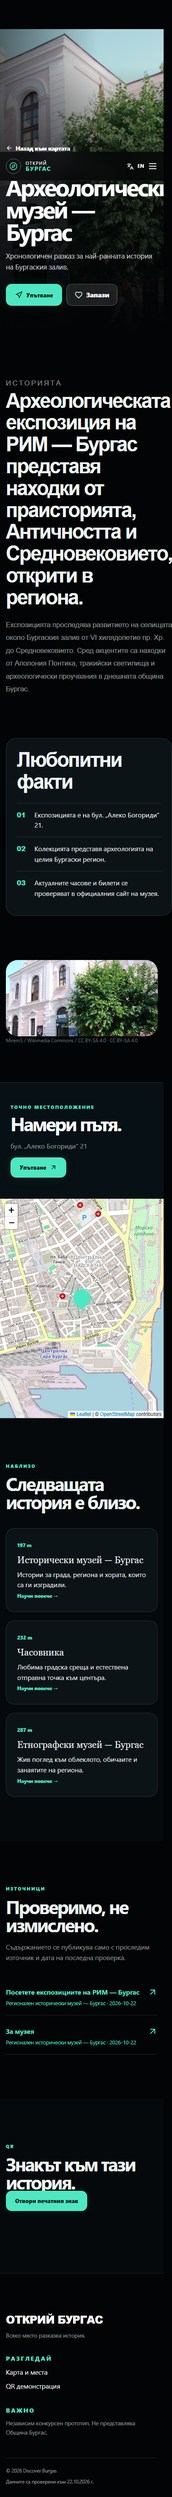
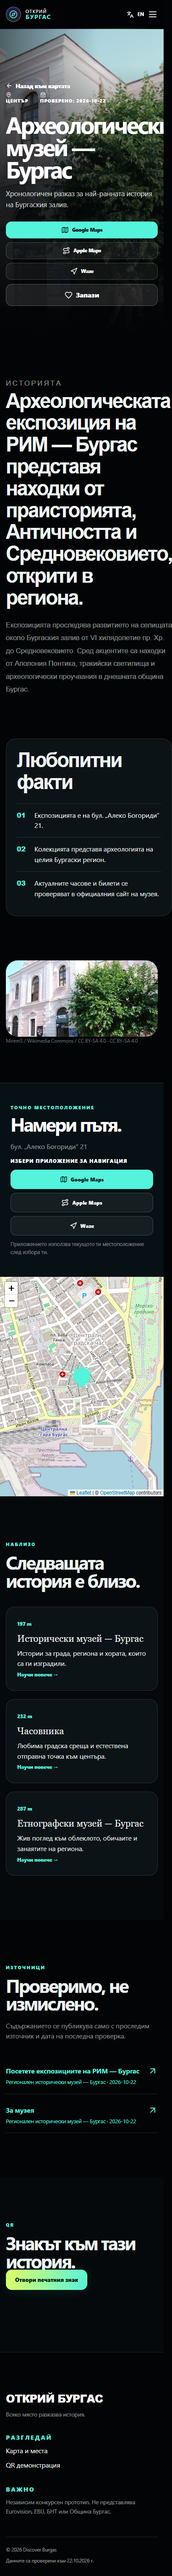
Add Burgas 2027 visitor layer and universal navigation

diff --git a/src/app/[locale]/page.tsx b/src/app/[locale]/page.tsx
@@ -1,6 +1,6 @@
 import Image from "next/image";
 import Link from "next/link";
-import { ArrowRight, Footprints, MapPinned, QrCode, ScanLine } from "lucide-react";
+import { ArrowRight, CalendarDays, Footprints, MapPinned, Music2, QrCode, RadioTower, ScanLine } from "lucide-react";
 import { notFound } from "next/navigation";
 import { PlaceCard } from "@/components/PlaceCard";
 import { MapExplorer } from "@/components/MapExplorer";
@@ -10,14 +10,15 @@ import { isLocale } from "@/types/content";
 export default async function HomePage({ params }: { params: Promise<{ locale: string }> }) {
   const { locale } = await params; if (!isLocale(locale)) notFound(); const isBg=locale==="bg"; const featured=landmarks.filter((item)=>item.featured).slice(0,3); const route=routes[0];
   return <>
-    <section className="hero"><div className="hero-aura" aria-hidden="true"/><div className="hero-bg"><Image src="/images/island.jpg" alt={isBg?"Остров Света Анастасия в Бургаския залив":"St. Anastasia Island in Burgas Bay"} fill priority sizes="(max-width: 720px) 88vw, 520px"/></div><div className="shell hero-content"><div><p className="eyebrow">{isBg?"Културното наследство е около теб":"Cultural heritage is all around you"}</p><h1 className="display">{isBg?<>Градът се променя,<br/>когато го познаваш.</>:<>The city changes<br/>when you know it.</>}</h1><p className="hero-copy">{isBg?"Сканирай място. Открий неговата история. Продължи към следващата следа из Бургас.":"Scan a place. Discover its story. Follow the next clue across Burgas."}</p><div className="hero-actions"><Link className="button" href={`/${locale}/map`}>{isBg?"Разгледай картата":"Explore the map"}<ArrowRight size={18}/></Link><Link className="button secondary" href="#places">{isBg?"Виж как работи":"See how it works"}</Link></div><small className="hero-status">{isBg?"Без инсталация · без регистрация · директно в браузъра":"No install · no account · directly in your browser"}</small></div><div className="hero-note"><strong>07</strong><span>{isBg?"проверени места · една жива карта":"verified places · one living map"}</span></div></div></section>
+    <section className="hero"><div className="hero-aura" aria-hidden="true"/><div className="hero-rhythm" aria-hidden="true">{Array.from({length:18}).map((_,i)=><i key={i}/>)}</div><div className="hero-bg"><Image src="/images/island.jpg" alt={isBg?"Остров Света Анастасия в Бургаския залив":"St. Anastasia Island in Burgas Bay"} fill priority sizes="(max-width: 720px) 88vw, 520px"/></div><div className="shell hero-content"><div><p className="eyebrow">{isBg?"Бургас 2027 · град домакин · културен спътник":"Burgas 2027 · Host City · cultural companion"}</p><h1 className="display">{isBg?<>Един град.<br/>Хиляди истории.</>:<>One city.<br/>Thousands of stories.</>}</h1><p className="hero-copy">{isBg?"Открий културния ритъм на Бургас — от QR знака пред теб до следващото място, сцената и морето.":"Discover the cultural rhythm of Burgas — from the QR sign in front of you to the next place, the stage and the sea."}</p><div className="hero-actions"><Link className="button" href={`/${locale}/map`}>{isBg?"Разгледай картата":"Explore the map"}<ArrowRight size={18}/></Link><Link className="button secondary" href={`/${locale}/places/arena-burgas`}>{isBg?"Бургас 2027":"Burgas 2027"}<Music2 size={17}/></Link></div><small className="hero-status">{isBg?"Независим културен гид · официалните новини са свързани към източника":"Independent cultural guide · official updates link to their source"}</small></div><div className="hero-note"><strong>08</strong><span>{isBg?"проверени места · една жива карта":"verified places · one living map"}</span></div></div></section>
+    <section className="event-section"><div className="shell event-card"><div className="event-signal"><RadioTower size={22}/><span>{isBg?"Потвърдено от EBU и БНТ":"Confirmed by the EBU and BNT"}</span></div><div className="event-main"><div><p className="eyebrow">{isBg?"България посреща Европа":"Bulgaria welcomes Europe"}</p><h2 className="display">{isBg?"Бургас е домакин на Eurovision 2027.":"Burgas hosts Eurovision 2027."}</h2><p>{isBg?"Арена Бургас е единствената потвърдена фестивална локация към момента. Добавихме я към картата с проверени координати и избор на навигация.":"Arena Burgas is the only confirmed contest location so far. It is now on the map with verified coordinates and a choice of navigation apps."}</p><div className="event-actions"><Link className="button" href={`/${locale}/places/arena-burgas`}>{isBg?"Отвори Арена Бургас":"Open Arena Burgas"}<ArrowRight size={17}/></Link><a className="button secondary" href="https://www.eurovision.com/newsroom/frequently-asked-questions/faqs-burgas-2027/" target="_blank" rel="noreferrer">{isBg?"Официална информация":"Official information"}</a></div></div><div className="event-dates" aria-label={isBg?"Дати на шоу вечерите":"Live show dates"}><CalendarDays/><strong>11 · 13 · 15</strong><span>{isBg?"МАЙ 2027 · АРЕНА БУРГАС":"MAY 2027 · ARENA BURGAS"}</span></div></div><small>{isBg?"„Открий Бургас“ не е официална услуга на Eurovision, EBU, БНТ или Община Бургас.":"Discover Burgas is not an official service of Eurovision, the EBU, BNT or Burgas Municipality."}</small></div></section>
     <section className="section problem-section"><div className="shell"><div className="section-head"><div><p className="eyebrow">{isBg?"Проблемът":"The problem"}</p><h2 className="display">{isBg?"Една табела дава факт. Истинското откриване започва след него.":"A sign gives you a fact. Real discovery begins after it."}</h2></div><p>{isBg?"Много културни места остават невидими, дори когато минаваме покрай тях. „Открий Бургас“ превръща краткия поглед в маршрут.":"Many cultural places stay invisible even as we pass them. Discover Burgas turns a glance into a journey."}</p></div><div className="steps">{[
       ["01",ScanLine,isBg?"Сканирай":"Scan",isBg?"QR кодът на информационния знак отваря точното място.":"The sign’s QR code opens the exact place."],
       ["02",QrCode,isBg?"Научи":"Learn",isBg?"Прочети проверена история и виж автентични изображения.":"Read verified history and view authentic images."],
       ["03",MapPinned,isBg?"Избери":"Choose",isBg?"Открий какво се намира наблизо върху интерактивната карта.":"Find what is nearby on the interactive map."],
       ["04",Footprints,isBg?"Продължи":"Continue",isBg?"Отвори упътване и продължи по културния маршрут.":"Open directions and continue along the cultural route."]
     ].map(([num,Icon,title,text])=><article className="step" key={num as string}><span>{num as string}</span><Icon size={24}/><h3>{title as string}</h3><p>{text as string}</p></article>)}</div></div></section>
-    <section className="section soft" id="places"><div className="shell"><div className="section-head"><div><p className="eyebrow">{isBg?"Архивът оживява":"The archive comes alive"}</p><h2 className="display">{isBg?"Три места. Три различни лица на Бургас.":"Three places. Three different faces of Burgas."}</h2></div><Link className="text-link" href={`/${locale}/map`}>{isBg?"Всички 7 места":"All 7 places"}<ArrowRight size={16}/></Link></div><div className="places-grid">{featured.map((item,i)=><PlaceCard item={item} locale={locale} index={i+1} key={item.slug}/>)}</div></div></section>
+    <section className="section soft" id="places"><div className="shell"><div className="section-head"><div><p className="eyebrow">{isBg?"Архивът оживява":"The archive comes alive"}</p><h2 className="display">{isBg?"Три места. Три различни лица на Бургас.":"Three places. Three different faces of Burgas."}</h2></div><Link className="text-link" href={`/${locale}/map`}>{isBg?"Всички 8 места":"All 8 places"}<ArrowRight size={16}/></Link></div><div className="places-grid">{featured.map((item,i)=><PlaceCard item={item} locale={locale} index={i+1} key={item.slug}/>)}</div></div></section>
     <section className="section map-story"><div className="shell"><div className="map-teaser"><div className="map-teaser-copy"><p className="eyebrow">{isBg?"Карта, която продължава историята":"A map that continues the story"}</p><h2 className="display">{isBg?"Следващото място вече те чака.":"Your next place is already waiting."}</h2><p>{isBg?"Реални координати, ясни категории и локация само след твое действие. Ако откажеш достъп, списъкът остава напълно използваем.":"Real coordinates, clear categories and location only after your action. If you decline, the list remains fully usable."}</p><Link className="button" href={`/${locale}/map`}>{isBg?"Отвори цялата карта":"Open the full map"}</Link></div><div className="map-teaser-map"><MapExplorer items={landmarks} locale={locale} compact/></div></div></div></section>
     <section className="section soft"><div className="shell route-feature"><div className="route-visual"><p className="eyebrow">{isBg?"Пешеходна линия · 5 спирки":"Walking sequence · 5 stops"}</p><div className="route-line">{route.stops.map((stop,i)=>{const item=landmarks.find((p)=>p.slug===stop.landmarkSlug)!;return <div className="route-stop-mini" key={stop.landmarkSlug}><span>{i+1}</span><strong>{item.translations[locale].name}</strong></div>})}</div></div><div className="route-copy"><p className="eyebrow">{isBg?"Предложен маршрут":"Suggested route"}</p><h2 className="display">{route.translations[locale].title}</h2><p>{route.translations[locale].description}</p><p>{isBg?"Маршрутът свързва само реално близки места. Време и дистанция не се показват без потвърдено маршрутизиране.":"The route connects genuinely nearby places. Time and distance are not shown without verified routing."}</p><Link className="button" href={`/${locale}/routes/${route.slug}`}>{isBg?"Виж маршрута":"View the route"}<ArrowRight size={17}/></Link></div></div></section>
     <section className="section dark"><div className="shell qr-section"><div className="qr-copy"><p className="eyebrow" style={{color:"var(--gold)"}}>{isBg?"Работещ QR поток":"A working QR journey"}</p><h2 className="display">{isBg?"Историята започва точно тук.":"The story begins right here."}</h2><p>{isBg?"Всеки знак съдържа постоянен адрес към реална страница. Сканирай примерния код с телефона си — той не симулира сканиране.":"Every sign contains a permanent address to a real page. Scan the sample with your phone — it does not simulate scanning."}</p><Link className="button" href={`/${locale}/demo`}>{isBg?"Отвори демо режима":"Open demo mode"}<ArrowRight size={17}/></Link></div><div className="qr-sign-mini"><strong>{isBg?"Акве Калиде":"Aquae Calidae"}</strong><span>{isBg?"Сканирай и открий историята на това място.":"Scan and discover the story of this place."}</span><img src="/api/qr/aquae-calidae?format=svg" alt={isBg?"QR код към Акве Калиде":"QR code for Aquae Calidae"}/><small>discover-burgas · /places/aquae-calidae</small></div></div></section>

diff --git a/src/app/[locale]/places/[slug]/page.tsx b/src/app/[locale]/places/[slug]/page.tsx
@@ -1,11 +1,12 @@
 import Image from "next/image";
 import Link from "next/link";
-import { ArrowLeft, ArrowUpRight, CalendarCheck, MapPin, Navigation } from "lucide-react";
+import { ArrowLeft, ArrowUpRight, CalendarCheck, MapPin } from "lucide-react";
 import { notFound } from "next/navigation";
 import { FavoriteButton } from "@/components/FavoriteButton";
 import { MapExplorer } from "@/components/MapExplorer";
+import { NavigationLinks } from "@/components/NavigationLinks";
 import { getLandmark, publishedLandmarks } from "@/lib/content";
-import { directionsUrl, nearby } from "@/lib/geo";
+import { nearby } from "@/lib/geo";
 import { copy } from "@/lib/ui";
 import { isLocale } from "@/types/content";
 
@@ -15,10 +16,10 @@ export async function generateMetadata({params}:{params:Promise<{locale:string;s
 export default async function PlacePage({params}:{params:Promise<{locale:string;slug:string}>}){
   const {locale,slug}=await params;if(!isLocale(locale))notFound();const item=getLandmark(slug);if(!item)notFound();const t=item.translations[locale],ui=copy[locale],image=item.images[0],near=nearby(item,publishedLandmarks());const isIsland=item.slug==="st-anastasia-island",isAquae=item.slug==="aquae-calidae";
   return <>
-    <section className="place-hero"><div className="place-hero-bg">{image?<Image src={image.path} alt={t.name} fill priority sizes="100vw"/>:<div className="image-fallback"><span>42° N</span><i>DISCOVER BURGAS / CULTURAL PLACE</i></div>}</div><div className="shell place-hero-content"><Link className="text-link" style={{color:"white"}} href={`/${locale}/map`}><ArrowLeft size={16}/>{locale==="bg"?"Назад към картата":"Back to map"}</Link><div className="place-meta"><span><MapPin size={13}/> {item.area}</span><span><CalendarCheck size={13}/> {ui.verified}: {item.lastVerifiedAt}</span>{isIsland&&<span>{locale==="bg"?"Достъп с кораб":"Boat access"}</span>}{isAquae&&<span>{locale==="bg"?"Необходим е транспорт":"Transport required"}</span>}</div><h1 className="display">{t.name}</h1><p>{t.short}</p><div className="place-actions"><a className="button" href={directionsUrl(item)} target="_blank" rel="noreferrer"><Navigation size={18}/>{ui.directions}</a><FavoriteButton slug={item.slug} locale={locale}/></div></div></section>
+    <section className="place-hero"><div className="place-hero-bg">{image?<Image src={image.path} alt={t.name} fill priority sizes="100vw"/>:<div className="image-fallback"><span>42° N</span><i>DISCOVER BURGAS / CULTURAL PLACE</i></div>}</div><div className="shell place-hero-content"><Link className="text-link" style={{color:"white"}} href={`/${locale}/map`}><ArrowLeft size={16}/>{locale==="bg"?"Назад към картата":"Back to map"}</Link><div className="place-meta"><span><MapPin size={13}/> {item.area}</span><span><CalendarCheck size={13}/> {ui.verified}: {item.lastVerifiedAt}</span>{isIsland&&<span>{locale==="bg"?"Достъп с кораб":"Boat access"}</span>}{isAquae&&<span>{locale==="bg"?"Необходим е транспорт":"Transport required"}</span>}</div><h1 className="display">{t.name}</h1><p>{t.short}</p><div className="place-actions"><NavigationLinks item={item} locale={locale} compact/><FavoriteButton slug={item.slug} locale={locale}/></div></div></section>
     <section className="section"><div className="shell story-layout"><article className="story-main"><p className="eyebrow">{ui.history}</p><h2>{t.description}</h2><p>{t.history}</p></article><aside className="facts-box"><h2>{ui.facts}</h2><ol>{t.facts.map((fact)=><li key={fact}>{fact}</li>)}</ol></aside></div></section>
     {image&&<section className="shell" style={{paddingBottom:90}}><div style={{position:"relative",aspectRatio:"16/8",overflow:"hidden",borderRadius:28}}><Image src={image.path} alt={t.name} fill sizes="100vw" style={{objectFit:"cover"}}/></div><p style={{fontSize:12,color:"#6b7980"}}>{image.attribution} · <a href={image.sourceUrl} target="_blank" rel="noreferrer">{image.license}</a></p></section>}
-    <section className="location-grid"><div className="location-copy"><p className="eyebrow" style={{color:"var(--gold)"}}>{locale==="bg"?"Точно местоположение":"Exact location"}</p><h2 className="display">{locale==="bg"?"Намери пътя.":"Find your way."}</h2><p>{item.address}</p>{isIsland&&<p>{locale==="bg"?"Не следвай пешеходно упътване през водата. Провери официалния график на корабите преди посещение.":"Do not follow walking directions across the water. Check the official boat schedule before visiting."}</p>}<a className="button" href={directionsUrl(item)} target="_blank" rel="noreferrer">{ui.directions}<ArrowUpRight size={17}/></a></div><MapExplorer items={[item]} locale={locale} compact/></section>
+    <section className="location-grid"><div className="location-copy"><p className="eyebrow" style={{color:"var(--gold)"}}>{locale==="bg"?"Точно местоположение":"Exact location"}</p><h2 className="display">{locale==="bg"?"Намери пътя.":"Find your way."}</h2><p>{item.address}</p>{isIsland&&<p>{locale==="bg"?"Не следвай пешеходно упътване през водата. Провери официалния график на корабите преди посещение.":"Do not follow walking directions across the water. Check the official boat schedule before visiting."}</p>}<NavigationLinks item={item} locale={locale}/></div><MapExplorer items={[item]} locale={locale} compact/></section>
     <section className="section soft"><div className="shell"><div className="section-head"><div><p className="eyebrow">{ui.nearby}</p><h2 className="display">{locale==="bg"?"Следващата история е близо.":"The next story is close."}</h2></div></div><div className="nearby-cards">{near.map(({item:next,distanceKm})=><Link className="nearby-card" href={`/${locale}/places/${next.slug}`} key={next.slug}><span>{distanceKm<1?`${Math.round(distanceKm*1000)} m`:`${distanceKm.toFixed(1)} km`}</span><h3>{next.translations[locale].name}</h3><p>{next.translations[locale].short}</p><span>{ui.learn} →</span></Link>)}</div></div></section>
     <section className="section"><div className="shell"><div className="section-head"><div><p className="eyebrow">{ui.sources}</p><h2 className="display">{locale==="bg"?"Проверимо, не измислено.":"Verifiable, not invented."}</h2></div><p>{locale==="bg"?"Съдържанието се публикува само с проследим източник и дата на последна проверка.":"Content is published only with a traceable source and a last-checked date."}</p></div><div className="source-list">{item.sources.map((source)=><a href={source.url} target="_blank" rel="noreferrer" key={source.url}><span><strong>{source.title}</strong><br/><small>{source.publisher} · {source.verifiedAt}</small></span><ArrowUpRight/></a>)}</div></div></section>
     <section className="section soft"><div className="shell"><div className="section-head"><div><p className="eyebrow">QR</p><h2 className="display">{locale==="bg"?"Знакът към тази история.":"The sign for this story."}</h2></div><Link className="button" href={`/${locale}/demo/sign/${item.slug}`}>{locale==="bg"?"Отвори печатния знак":"Open printable sign"}</Link></div></div></section>

diff --git a/src/app/globals.css b/src/app/globals.css
@@ -346,3 +346,55 @@ body { color:var(--slate); background:#020405; font-family:Inter,Manrope,"Segoe 
 @media print {
   html,body { background:#fff; color:#111; }.print-sign { color:#10191c; background:#fff; }
 }
+
+/* Burgas 2027 host-city season — original event-inspired layer, not official branding. */
+:root {
+  --turquoise:#54f3dc;
+  --event-blue:#6257ff;
+  --event-pink:#ff4fd8;
+  --event-lime:#dfff65;
+  --event-ink:#05030d;
+}
+body {
+  background:
+    radial-gradient(circle at 12% 9%,rgba(98,87,255,.1),transparent 26rem),
+    radial-gradient(circle at 88% 22%,rgba(255,79,216,.08),transparent 28rem),
+    #020405;
+}
+.site-header::after { content:""; position:absolute; inset:auto 0 -1px; height:1px; background:linear-gradient(90deg,transparent,var(--event-blue),var(--event-pink),var(--turquoise),transparent); opacity:.55; }
+.brand-mark { background:conic-gradient(from 215deg,rgba(84,243,220,.18),rgba(98,87,255,.3),rgba(255,79,216,.22),rgba(84,243,220,.18)); }
+.button { background:linear-gradient(105deg,var(--event-lime),var(--turquoise)); box-shadow:0 0 34px rgba(84,243,220,.11); }
+.button:hover { box-shadow:0 0 42px rgba(84,243,220,.28); }
+.hero { background:linear-gradient(180deg,rgba(5,3,13,.2),#020405); }
+.hero-aura { background:radial-gradient(ellipse at center,rgba(84,243,220,.43),rgba(98,87,255,.3) 34%,rgba(255,79,216,.12) 53%,transparent 72%); }
+.hero-rhythm { position:absolute; z-index:-1; top:170px; left:50%; width:min(1180px,96vw); height:300px; transform:translateX(-50%); display:flex; align-items:center; justify-content:center; gap:clamp(6px,1.1vw,16px); opacity:.28; mask-image:linear-gradient(90deg,transparent,#000 16%,#000 84%,transparent); }
+.hero-rhythm i { width:4px; height:calc(24px + (var(--n, 1) * 0px)); border-radius:999px; background:linear-gradient(var(--event-pink),var(--event-blue),var(--turquoise)); animation:pulseLine 2.8s ease-in-out infinite; }
+.hero-rhythm i:nth-child(3n+1) { height:82px; animation-delay:-.9s; }.hero-rhythm i:nth-child(3n+2) { height:160px; animation-delay:-1.7s; }.hero-rhythm i:nth-child(3n) { height:236px; animation-delay:-2.2s; }
+.hero-bg { box-shadow:0 0 0 8px rgba(255,255,255,.025),0 0 90px rgba(98,87,255,.25),0 45px 100px rgba(0,0,0,.75); }
+.hero-note { border-color:rgba(84,243,220,.25); }
+.event-section { padding:0 0 130px; background:#020405; }
+.event-card { position:relative; overflow:hidden; padding:30px; border:1px solid rgba(255,255,255,.14); border-radius:34px; background:radial-gradient(circle at 85% 10%,rgba(255,79,216,.2),transparent 28%),radial-gradient(circle at 55% 100%,rgba(84,243,220,.16),transparent 34%),linear-gradient(135deg,#0d0a25,#07151b 58%,#0d0819); box-shadow:0 50px 140px rgba(0,0,0,.48); }
+.event-card::before { content:""; position:absolute; inset:-40%; background:repeating-radial-gradient(circle at 75% 40%,transparent 0 30px,rgba(255,255,255,.04) 31px 32px); transform:rotate(-8deg); pointer-events:none; }
+.event-card > * { position:relative; z-index:1; }
+.event-signal { display:flex; align-items:center; gap:10px; padding-bottom:22px; border-bottom:1px solid rgba(255,255,255,.12); color:var(--turquoise); font-size:.72rem; font-weight:800; letter-spacing:.12em; text-transform:uppercase; }
+.event-main { display:grid; grid-template-columns:1fr 310px; gap:70px; align-items:end; padding:65px 30px 50px; }
+.event-main h2 { max-width:760px; margin:12px 0 22px; font-size:clamp(3.3rem,6.3vw,6.7rem); }
+.event-main p { max-width:690px; color:rgba(255,255,255,.65); line-height:1.7; }
+.event-actions { display:flex; flex-wrap:wrap; gap:10px; margin-top:28px; }
+.event-dates { min-height:310px; display:flex; flex-direction:column; justify-content:flex-end; padding:28px; border:1px solid rgba(255,255,255,.15); border-radius:28px; background:rgba(3,4,11,.48); backdrop-filter:blur(18px); }
+.event-dates svg { color:var(--event-lime); }.event-dates strong { margin-top:auto; font-size:clamp(3.2rem,5vw,5.6rem); line-height:.88; letter-spacing:-.08em; }.event-dates span { margin-top:13px; color:rgba(255,255,255,.58); font-size:.69rem; font-weight:800; letter-spacing:.17em; }
+.event-card > small { display:block; padding:18px 30px 0; border-top:1px solid rgba(255,255,255,.1); color:rgba(255,255,255,.42); }
+.navigation-chooser { margin-top:24px; }.navigation-chooser > p { margin:0 0 12px; color:#fff; font-size:.76rem; font-weight:800; letter-spacing:.08em; text-transform:uppercase; }
+.navigation-providers { display:flex; flex-wrap:wrap; gap:9px; }
+.navigation-providers a { min-height:46px; display:inline-flex; align-items:center; gap:8px; padding:0 15px; border:1px solid rgba(255,255,255,.2); border-radius:13px; color:#fff; background:rgba(255,255,255,.06); font-size:.78rem; font-weight:800; transition:.2s ease; }
+.navigation-providers a:first-child { color:#00140f; border-color:var(--turquoise); background:var(--turquoise); }
+.navigation-providers a:hover { border-color:var(--event-pink); transform:translateY(-2px); }
+.navigation-chooser > small { display:block; margin-top:11px; color:rgba(255,255,255,.48); line-height:1.45; }
+.navigation-chooser.compact { margin-top:14px; }.navigation-chooser.compact .navigation-providers a { min-height:40px; padding:0 12px; }.navigation-chooser.compact .navigation-providers span { font-size:.72rem; }
+.place-actions { align-items:center; flex-wrap:wrap; }.place-actions .navigation-chooser { margin-top:0; }
+.route-stop .navigation-providers { margin-top:2px; }.route-stop .navigation-providers a { color:rgba(255,255,255,.78); background:#10181c; border-color:var(--line); }
+.route-stop .navigation-providers a:first-child { color:#00140f; background:var(--turquoise); }
+.location-copy .navigation-chooser { margin-top:12px; }
+@keyframes pulseLine { 0%,100% { transform:scaleY(.36); opacity:.38; } 50% { transform:scaleY(1); opacity:1; } }
+@media (max-width:900px) { .event-main { grid-template-columns:1fr; gap:34px; }.event-dates { min-height:230px; }.event-section { padding-bottom:90px; } }
+@media (max-width:620px) { .hero-rhythm { top:125px; height:230px; }.event-card { padding:18px; border-radius:25px; }.event-main { padding:45px 8px 34px; }.event-main h2 { font-size:3.25rem; }.event-card > small { padding:17px 8px 0; }.event-dates { min-height:210px; padding:22px; }.navigation-providers { display:grid; grid-template-columns:1fr; width:100%; }.navigation-providers a { justify-content:center; }.place-actions { display:grid; }.place-actions .favorite { justify-content:center; }.route-stop .navigation-providers { grid-template-columns:1fr; } }

diff --git a/src/app/[locale]/demo/page.tsx b/src/app/[locale]/demo/page.tsx
@@ -3,4 +3,18 @@ import { ArrowRight, Map, Navigation, QrCode, ScanLine } from "lucide-react";
 import { notFound } from "next/navigation";
 import { isLocale } from "@/types/content";
 
-export default async function DemoPage({params}:{params:Promise<{locale:string}>}){const {locale}=await params;if(!isLocale(locale))notFound();const bg=locale==="bg";const steps=[[ScanLine,bg?"Покажи проблема":"Show the problem",bg?"Минаваме покрай културни места, без да познаваме историите им.":"We pass cultural places without knowing their stories."],[Map,bg?"Отвори картата":"Open the map",bg?"Седем реални места с филтри и достъпна списъчна алтернатива.":"Seven real places with filters and an accessible list alternative."],[QrCode,bg?"Сканирай кода":"Scan the code",bg?"Телефонът отваря постоянната страница на Акве Калиде.":"The phone opens the permanent Aquae Calidae page."],[Navigation,bg?"Продължи":"Continue",bg?"Избери близко място или пешеходния маршрут през центъра.":"Choose a nearby place or the central walking route."]];return <><section className="page-hero"><div className="shell"><p className="eyebrow" style={{color:"var(--gold)"}}>{bg?"3–5 минутна демонстрация":"3–5 minute demonstration"}</p><h1 className="display">{bg?"От знак до следваща история.":"From sign to the next story."}</h1><p>{bg?"Надежден сценарий за жури — без вход, инсталация или симулирано сканиране.":"A reliable jury flow — no login, installation or simulated scan."}</p></div></section><section className="section"><div className="shell demo-grid"><div className="demo-steps">{steps.map(([Icon,title,text],i)=><article className="demo-step" key={title as string}><span>{i+1}</span><div><Icon size={20}/><strong>{title as string}</strong><small>{text as string}</small></div></article>)}<Link className="button" href={`/${locale}/map`}>{bg?"Започни демонстрацията":"Start the demonstration"}<ArrowRight size={17}/></Link></div><aside className="demo-sign"><p className="eyebrow">{bg?"Сканирай с истински телефон":"Scan with a real phone"}</p><h2>{bg?"Акве Калиде":"Aquae Calidae"}</h2><img src="/api/qr/aquae-calidae?format=svg" alt={bg?"QR код към Акве Калиде":"QR code to Aquae Calidae"}/><p>{bg?"Сканирай и открий историята на това място.":"Scan and discover the story of this place."}</p><Link className="text-link" href={`/${locale}/demo/sign/aquae-calidae`}>{bg?"Печатен вариант":"Printable version"} →</Link></aside></div></section></>}
+export default async function DemoPage({ params }: { params: Promise<{ locale: string }> }) {
+  const { locale } = await params;
+  if (!isLocale(locale)) notFound();
+  const bg = locale === "bg";
+  const steps = [
+    [ScanLine, bg ? "Покажи проблема" : "Show the problem", bg ? "Минаваме покрай културни места, без да познаваме историите им." : "We pass cultural places without knowing their stories."],
+    [Map, bg ? "Отвори картата" : "Open the map", bg ? "Осем реални места с филтри и достъпна списъчна алтернатива." : "Eight real places with filters and an accessible list alternative."],
+    [QrCode, bg ? "Сканирай кода" : "Scan the code", bg ? "Телефонът отваря постоянната страница на Акве Калиде." : "The phone opens the permanent Aquae Calidae page."],
+    [Navigation, bg ? "Продължи" : "Continue", bg ? "Избери близко място и навигация с Google Maps, Apple Maps или Waze." : "Choose a nearby place and navigate with Google Maps, Apple Maps or Waze."],
+  ] as const;
+  return <>
+    <section className="page-hero"><div className="shell"><p className="eyebrow" style={{ color: "var(--gold)" }}>{bg ? "3–5 минутна демонстрация" : "3–5 minute demonstration"}</p><h1 className="display">{bg ? "От знак до следваща история." : "From sign to the next story."}</h1><p>{bg ? "Надежден сценарий за жури — без вход, инсталация или симулирано сканиране." : "A reliable jury flow — no login, installation or simulated scan."}</p></div></section>
+    <section className="section"><div className="shell demo-grid"><div className="demo-steps">{steps.map(([Icon, title, text], i) => <article className="demo-step" key={title}><span>{i + 1}</span><div><Icon size={20}/><strong>{title}</strong><small>{text}</small></div></article>)}<Link className="button" href={`/${locale}/map`}>{bg ? "Започни демонстрацията" : "Start the demonstration"}<ArrowRight size={17}/></Link></div><aside className="demo-sign"><p className="eyebrow">{bg ? "Сканирай с истински телефон" : "Scan with a real phone"}</p><h2>{bg ? "Акве Калиде" : "Aquae Calidae"}</h2><img src="/api/qr/aquae-calidae?format=svg" alt={bg ? "QR код към Акве Калиде" : "QR code to Aquae Calidae"}/><p>{bg ? "Сканирай и открий историята на това място." : "Scan and discover the story of this place."}</p><Link className="text-link" href={`/${locale}/demo/sign/aquae-calidae`}>{bg ? "Печатен вариант" : "Printable version"} →</Link></aside></div></section>
+  </>;
+}

diff --git a/src/data/landmarks.ts b/src/data/landmarks.ts
@@ -86,6 +86,22 @@ const raw: Landmark[] = [
     },
     images: [{ path: "/images/island.jpg", creator: "EvelinaRibarova", sourceUrl: "https://commons.wikimedia.org/wiki/File:St._Anastasia_Island_(о-в_Света_Анастасия)_-_Burgas,_Bulgaria_-7-2017_(247).jpg", license: "CC BY-SA 4.0", attribution: "EvelinaRibarova / Wikimedia Commons / CC BY-SA 4.0" }],
     sources: [tourism("Остров Света Анастасия", "https://info.gotoburgas.com/bg/explore/landmark/st-anastasia-island"), { title: "St. Anastasia Island media record", url: "https://commons.wikimedia.org/wiki/File:St._Anastasia_Island_(о-в_Света_Анастасия)_-_Burgas,_Bulgaria_-7-2017_(247).jpg", publisher: "Wikimedia Commons", verifiedAt }]
+  },
+  {
+    id: "lm-arena-burgas", slug: "arena-burgas", category: "event-venue", municipality: "Бургас", area: "Изгрев",
+    address: "бул. „Стефан Стамболов“ 79", latitude: 42.524694, longitude: 27.455806,
+    officialUrl: "https://eurovision2027.bg/", accessibility: null, openingHours: null, entryFees: null,
+    lastVerifiedAt: verifiedAt, status: "PUBLISHED", featured: false,
+    translations: {
+      bg: { name: "Арена Бургас — Евровизия 2027", short: "Официалната сцена на 71-вото издание на Eurovision Song Contest през май 2027 г.", description: "Арена Бургас е потвърденото място за трите телевизионни шоу вечери на Eurovision Song Contest 2027.", history: "Европейският съюз за радио и телевизия и Българската национална телевизия обявяват Бургас за град домакин на 13 август 2026 г. Първият полуфинал е на 11 май 2027 г., вторият — на 13 май, а големият финал — на 15 май. Другите официални фестивални локации все още не са обявени.", facts: ["Арена Бургас е потвърденото място за полуфиналите и финала.", "Шоу вечерите са на 11, 13 и 15 май 2027 г.", "Информацията за билети, транспорт, Eurovision Village и EuroClub се публикува единствено чрез официалните канали."], keywords: ["Евровизия", "Eurovision 2027", "Арена Бургас", "музика", "събитие"] },
+      en: { name: "Arena Burgas — Eurovision 2027", short: "The confirmed stage for the 71st Eurovision Song Contest in May 2027.", description: "Arena Burgas is the confirmed venue for the three televised Eurovision Song Contest 2027 shows.", history: "The European Broadcasting Union and Bulgarian National Television announced Burgas as Host City on 13 August 2026. The First Semi-Final is scheduled for 11 May 2027, the Second Semi-Final for 13 May, and the Grand Final for 15 May. Other official festival locations have not yet been announced.", facts: ["Arena Burgas is the confirmed venue for both Semi-Finals and the Grand Final.", "The live shows are scheduled for 11, 13 and 15 May 2027.", "Ticket, transport, Eurovision Village and EuroClub information should be checked through official channels."], keywords: ["Eurovision", "Eurovision 2027", "Arena Burgas", "music", "event"] }
+    },
+    images: [],
+    sources: [
+      { title: "Burgas 2027 Host City FAQ", url: "https://www.eurovision.com/newsroom/frequently-asked-questions/faqs-burgas-2027/", publisher: "Eurovision Song Contest / EBU", verifiedAt },
+      { title: "Евровизия 2027 в Бургас", url: "https://eurovision2027.bg/", publisher: "Българска национална телевизия", verifiedAt },
+      { title: "Arena Burgas coordinate record", url: "https://musicbrainz.org/place/cd28e70d-8dcc-40b6-81b9-7b7efb60b35b", publisher: "MusicBrainz", verifiedAt }
+    ]
   }
 ];
 
@@ -111,5 +127,6 @@ export const categories = [
   { id: "architecture", bg: "Архитектура", en: "Architecture" },
   { id: "archaeology", bg: "Археология", en: "Archaeology" },
   { id: "urban-heritage", bg: "Градско наследство", en: "Urban heritage" },
-  { id: "historic-sites", bg: "Исторически места", en: "Historic sites" }
+  { id: "historic-sites", bg: "Исторически места", en: "Historic sites" },
+  { id: "event-venue", bg: "Евровизия 2027", en: "Eurovision 2027" }
 ];

diff --git a/src/app/[locale]/routes/[slug]/page.tsx b/src/app/[locale]/routes/[slug]/page.tsx
@@ -2,7 +2,8 @@ import Link from "next/link";
 import { ArrowUpRight, Footprints } from "lucide-react";
 import { notFound } from "next/navigation";
 import { MapExplorer } from "@/components/MapExplorer";
+import { NavigationLinks } from "@/components/NavigationLinks";
 import { getLandmark, getRoute } from "@/lib/content";
 import { isLocale } from "@/types/content";
 
-export default async function RoutePage({params}:{params:Promise<{locale:string;slug:string}>}){const {locale,slug}=await params;if(!isLocale(locale))notFound();const route=getRoute(slug);if(!route)notFound();const items=route.stops.map((s)=>getLandmark(s.landmarkSlug)!).filter(Boolean);return <><section className="page-hero"><div className="shell"><p className="eyebrow" style={{color:"var(--gold)"}}><Footprints size={16}/> {locale==="bg"?"Пешеходен маршрут · 5 спирки":"Walking route · 5 stops"}</p><h1 className="display">{route.translations[locale].title}</h1><p>{route.translations[locale].description}</p></div></section><section className="section"><div className="shell route-page-grid"><div className="route-stops">{route.stops.map((stop,i)=>{const item=getLandmark(stop.landmarkSlug)!;return <article className="route-stop" key={stop.landmarkSlug}><span>{i+1}</span><div><h2><Link href={`/${locale}/places/${item.slug}`}>{item.translations[locale].name}</Link></h2><p>{stop.note[locale]}</p><Link className="text-link" href={`/${locale}/places/${item.slug}`}>{locale==="bg"?"Виж мястото":"View place"}<ArrowUpRight size={15}/></Link></div></article>})}<div className="facts-box"><strong>{locale==="bg"?"Преди да тръгнеш":"Before you go"}</strong><p>{locale==="bg"?"Този прототип не публикува непроверени време и дистанция. Използвай бутона „Упътване“ на всяко място за актуален маршрут.":"This prototype does not publish unverified time or distance. Use each place’s Directions button for a current route."}</p></div></div><div className="route-map"><MapExplorer items={items} locale={locale} compact/></div></div></section></>}
+export default async function RoutePage({params}:{params:Promise<{locale:string;slug:string}>}){const {locale,slug}=await params;if(!isLocale(locale))notFound();const route=getRoute(slug);if(!route)notFound();const items=route.stops.map((s)=>getLandmark(s.landmarkSlug)!).filter(Boolean);return <><section className="page-hero"><div className="shell"><p className="eyebrow" style={{color:"var(--gold)"}}><Footprints size={16}/> {locale==="bg"?"Пешеходен маршрут · 5 спирки":"Walking route · 5 stops"}</p><h1 className="display">{route.translations[locale].title}</h1><p>{route.translations[locale].description}</p></div></section><section className="section"><div className="shell route-page-grid"><div className="route-stops">{route.stops.map((stop,i)=>{const item=getLandmark(stop.landmarkSlug)!;return <article className="route-stop" key={stop.landmarkSlug}><span>{i+1}</span><div><h2><Link href={`/${locale}/places/${item.slug}`}>{item.translations[locale].name}</Link></h2><p>{stop.note[locale]}</p><Link className="text-link" href={`/${locale}/places/${item.slug}`}>{locale==="bg"?"Виж мястото":"View place"}<ArrowUpRight size={15}/></Link><NavigationLinks item={item} locale={locale} compact/></div></article>})}<div className="facts-box"><strong>{locale==="bg"?"Преди да тръгнеш":"Before you go"}</strong><p>{locale==="bg"?"Всяка спирка предлага избор между Google Maps, Apple Maps и Waze. Външното приложение изчислява актуалния маршрут.":"Each stop offers Google Maps, Apple Maps and Waze. The external app calculates the current route."}</p></div></div><div className="route-map"><MapExplorer items={items} locale={locale} compact/></div></div></section></>}

diff --git a/tests/screenshots.spec.ts b/tests/screenshots.spec.ts
@@ -5,6 +5,7 @@ const shots = [
   ["homepage-mobile", "/bg", { width: 390, height: 844 }],
   ["interactive-map", "/bg/map", { width: 1440, height: 1000 }],
   ["landmark-detail", "/bg/places/aquae-calidae", { width: 1440, height: 1000 }],
+  ["arena-burgas", "/bg/places/arena-burgas", { width: 1440, height: 1000 }],
   ["nearby-mobile", "/bg/places/archaeological-museum", { width: 390, height: 844 }],
   ["cultural-route", "/bg/routes/burgas-centre-stories", { width: 1440, height: 1000 }],
   ["qr-demonstration", "/bg/demo", { width: 1280, height: 1000 }],
@@ -14,9 +15,12 @@ const shots = [
 for (const [name, path, viewport] of shots) test(`capture ${name}`, async ({ page }) => {
   await page.setViewportSize(viewport);
   await page.goto(path);
-  if (["homepage-desktop", "homepage-mobile", "interactive-map", "landmark-detail", "nearby-mobile", "cultural-route"].includes(name)) {
+  if (["homepage-desktop", "homepage-mobile", "interactive-map", "landmark-detail", "arena-burgas", "nearby-mobile", "cultural-route"].includes(name)) {
     await page.locator(".leaflet-marker-icon").first().waitFor({ state: "visible" });
   }
+  await page.evaluate(() => Array.from(document.images)
+    .filter((image) => !image.closest(".leaflet-container"))
+    .forEach((image) => { image.loading = "eager"; }));
   await page.evaluate(async () => {
     for (let y = 0; y < document.documentElement.scrollHeight; y += window.innerHeight) {
       window.scrollTo(0, y);
@@ -24,6 +28,11 @@ for (const [name, path, viewport] of shots) test(`capture ${name}`, async ({ pag
     }
     window.scrollTo(0, 0);
   });
-  await page.waitForFunction(() => Array.from(document.images).every((image) => image.complete && image.naturalWidth > 0));
+  await page.waitForTimeout(500);
+  const brokenImages = await page.evaluate(() => {
+    const images = Array.from(document.images).filter((image) => !image.closest(".leaflet-container"));
+    return images.filter((image) => image.complete && image.naturalWidth === 0).map((image) => image.currentSrc || image.src);
+  });
+  if (brokenImages.length) throw new Error(`Broken screenshot images: ${brokenImages.join(", ")}`);
   await page.screenshot({ path: `screenshots/${name}.png`, fullPage: true });
 });

diff --git a/src/components/Footer.tsx b/src/components/Footer.tsx
@@ -5,6 +5,6 @@ export function Footer({ locale }: { locale: Locale }) {
   return <footer className="footer"><div className="shell footer-grid">
     <div><div className="footer-brand">ОТКРИЙ БУРГАС</div><p>{locale === "bg" ? "Всяко място разказва история." : "Every place has a story."}</p></div>
     <div><p className="eyebrow">{locale === "bg" ? "Разгледай" : "Explore"}</p><Link href={`/${locale}/map`}>{locale === "bg" ? "Карта и места" : "Map and places"}</Link><Link href={`/${locale}/demo`}>{locale === "bg" ? "QR демонстрация" : "QR demonstration"}</Link></div>
-    <div><p className="eyebrow">{locale === "bg" ? "Важно" : "Important"}</p><p>{locale === "bg" ? "Независим конкурсен прототип. Не представлява Община Бургас." : "Independent competition prototype. Not an official Burgas Municipality service."}</p></div>
+    <div><p className="eyebrow">{locale === "bg" ? "Важно" : "Important"}</p><p>{locale === "bg" ? "Независим конкурсен прототип. Не представлява Eurovision, EBU, БНТ или Община Бургас." : "Independent competition prototype. Not an official Eurovision, EBU, BNT or Burgas Municipality service."}</p></div>
   </div><div className="shell footer-bottom"><span>© 2026 Discover Burgas</span><span>{locale === "bg" ? "Данните са проверени към 22.10.2026 г." : "Data checked on 22 Oct 2026."}</span></div></footer>;
 }

diff --git a/src/components/Header.tsx b/src/components/Header.tsx
@@ -18,13 +18,13 @@ export function Header({ locale }: { locale: Locale }) {
       </Link>
       <nav className="desktop-nav" aria-label={locale === "bg" ? "Основна навигация" : "Primary navigation"}>
         <Link href={`/${locale}`}>{t.navHome}</Link><Link href={`/${locale}/map`}>{t.navMap}</Link>
-        <Link href={`/${locale}/routes/burgas-centre-stories`}>{t.navRoute}</Link><Link href={`/${locale}/demo`}>{t.navDemo}</Link>
+        <Link href={`/${locale}/routes/burgas-centre-stories`}>{t.navRoute}</Link><Link href={`/${locale}/places/arena-burgas`}>Burgas 2027</Link><Link href={`/${locale}/demo`}>{t.navDemo}</Link>
       </nav>
       <div className="header-actions">
         <Link className="language" href={otherPath}><Languages size={17}/>{other.toUpperCase()}</Link>
         <details className="mobile-menu"><summary aria-label={locale === "bg" ? "Отвори меню" : "Open menu"}><Menu/></summary><nav>
           <Link href={`/${locale}`}>{t.navHome}</Link><Link href={`/${locale}/map`}>{t.navMap}</Link>
-          <Link href={`/${locale}/routes/burgas-centre-stories`}>{t.navRoute}</Link><Link href={`/${locale}/demo`}>{t.navDemo}</Link>
+          <Link href={`/${locale}/routes/burgas-centre-stories`}>{t.navRoute}</Link><Link href={`/${locale}/places/arena-burgas`}>Burgas 2027</Link><Link href={`/${locale}/demo`}>{t.navDemo}</Link>
         </nav></details>
       </div>
     </div>

diff --git a/tests/app.spec.ts b/tests/app.spec.ts
@@ -3,11 +3,19 @@ import AxeBuilder from "@axe-core/playwright";
 
 test("Bulgarian discovery journey", async ({ page }) => {
   await page.goto("/bg");
-  await expect(page.getByRole("heading", { name: /Градът се променя/ })).toBeVisible();
+  await expect(page.getByRole("heading", { name: /Един град/ })).toBeVisible();
   await page.getByRole("link", { name: "Разгледай картата" }).first().click();
   await expect(page).toHaveURL(/\/bg\/map/);
   await page.getByPlaceholder("Търси място или история…").fill("Акве");
   await expect(page.getByText("Туристически комплекс „Акве Калиде“").first()).toBeVisible();
+});
+
+test("Arena Burgas offers universal navigation choices", async ({ page }) => {
+  await page.goto("/bg/places/arena-burgas");
+  await expect(page.getByRole("heading", { level: 1, name: /Арена Бургас/ })).toBeVisible();
+  await expect(page.getByRole("link", { name: /Google Maps/ }).first()).toHaveAttribute("href", /google\.com\/maps\/dir/);
+  await expect(page.getByRole("link", { name: /Apple Maps/ }).first()).toHaveAttribute("href", /maps\.apple\.com\/directions/);
+  await expect(page.getByRole("link", { name: /Waze/ }).first()).toHaveAttribute("href", /waze\.com\/ul/);
 });
 
 test("stable QR route redirects and English switch works", async ({ page }) => {

diff --git a/src/components/NavigationLinks.tsx b/src/components/NavigationLinks.tsx
@@ -1,0 +1,17 @@
+import { Map, Navigation, Route } from "lucide-react";
+import { navigationUrls } from "@/lib/geo";
+import type { Landmark, Locale } from "@/types/content";
+
+export function NavigationLinks({ item, locale, compact = false }: { item: Landmark; locale: Locale; compact?: boolean }) {
+  const urls = navigationUrls(item);
+  const label = locale === "bg" ? "Избери приложение за навигация" : "Choose a navigation app";
+  return <div className={`navigation-chooser ${compact ? "compact" : ""}`} aria-label={label}>
+    {!compact && <p>{label}</p>}
+    <div className="navigation-providers">
+      <a href={urls.google} target="_blank" rel="noreferrer" aria-label={`${label}: Google Maps`}><Map size={18}/><span>Google Maps</span></a>
+      <a href={urls.apple} target="_blank" rel="noreferrer" aria-label={`${label}: Apple Maps`}><Route size={18}/><span>Apple Maps</span></a>
+      <a href={urls.waze} target="_blank" rel="noreferrer" aria-label={`${label}: Waze`}><Navigation size={18}/><span>Waze</span></a>
+    </div>
+    {!compact && <small>{locale === "bg" ? "Приложението използва текущото ти местоположение след избора ти." : "The selected app can use your current location after you choose it."}</small>}
+  </div>;
+}

diff --git a/src/lib/geo.ts b/src/lib/geo.ts
@@ -18,5 +18,19 @@ export function nearby(origin: Landmark, all: Landmark[], limit = 3) {
 
 export function directionsUrl(item: Landmark) {
   if (item.latitude == null || item.longitude == null) return item.officialUrl ?? "#";
-  return `https://www.google.com/maps/dir/?api=1&destination=${item.latitude},${item.longitude}`;
+  return navigationUrls(item).google;
+}
+
+export function navigationUrls(item: Landmark) {
+  if (item.latitude == null || item.longitude == null) {
+    const fallback = item.officialUrl ?? "#";
+    return { google: fallback, apple: fallback, waze: fallback };
+  }
+  const coordinates = `${item.latitude},${item.longitude}`;
+  const encoded = encodeURIComponent(coordinates);
+  return {
+    google: `https://www.google.com/maps/dir/?api=1&destination=${encoded}&dir_action=navigate`,
+    apple: `https://maps.apple.com/directions?destination=${encoded}`,
+    waze: `https://waze.com/ul?ll=${encoded}&navigate=yes&utm_source=discover-burgas`,
+  };
 }
